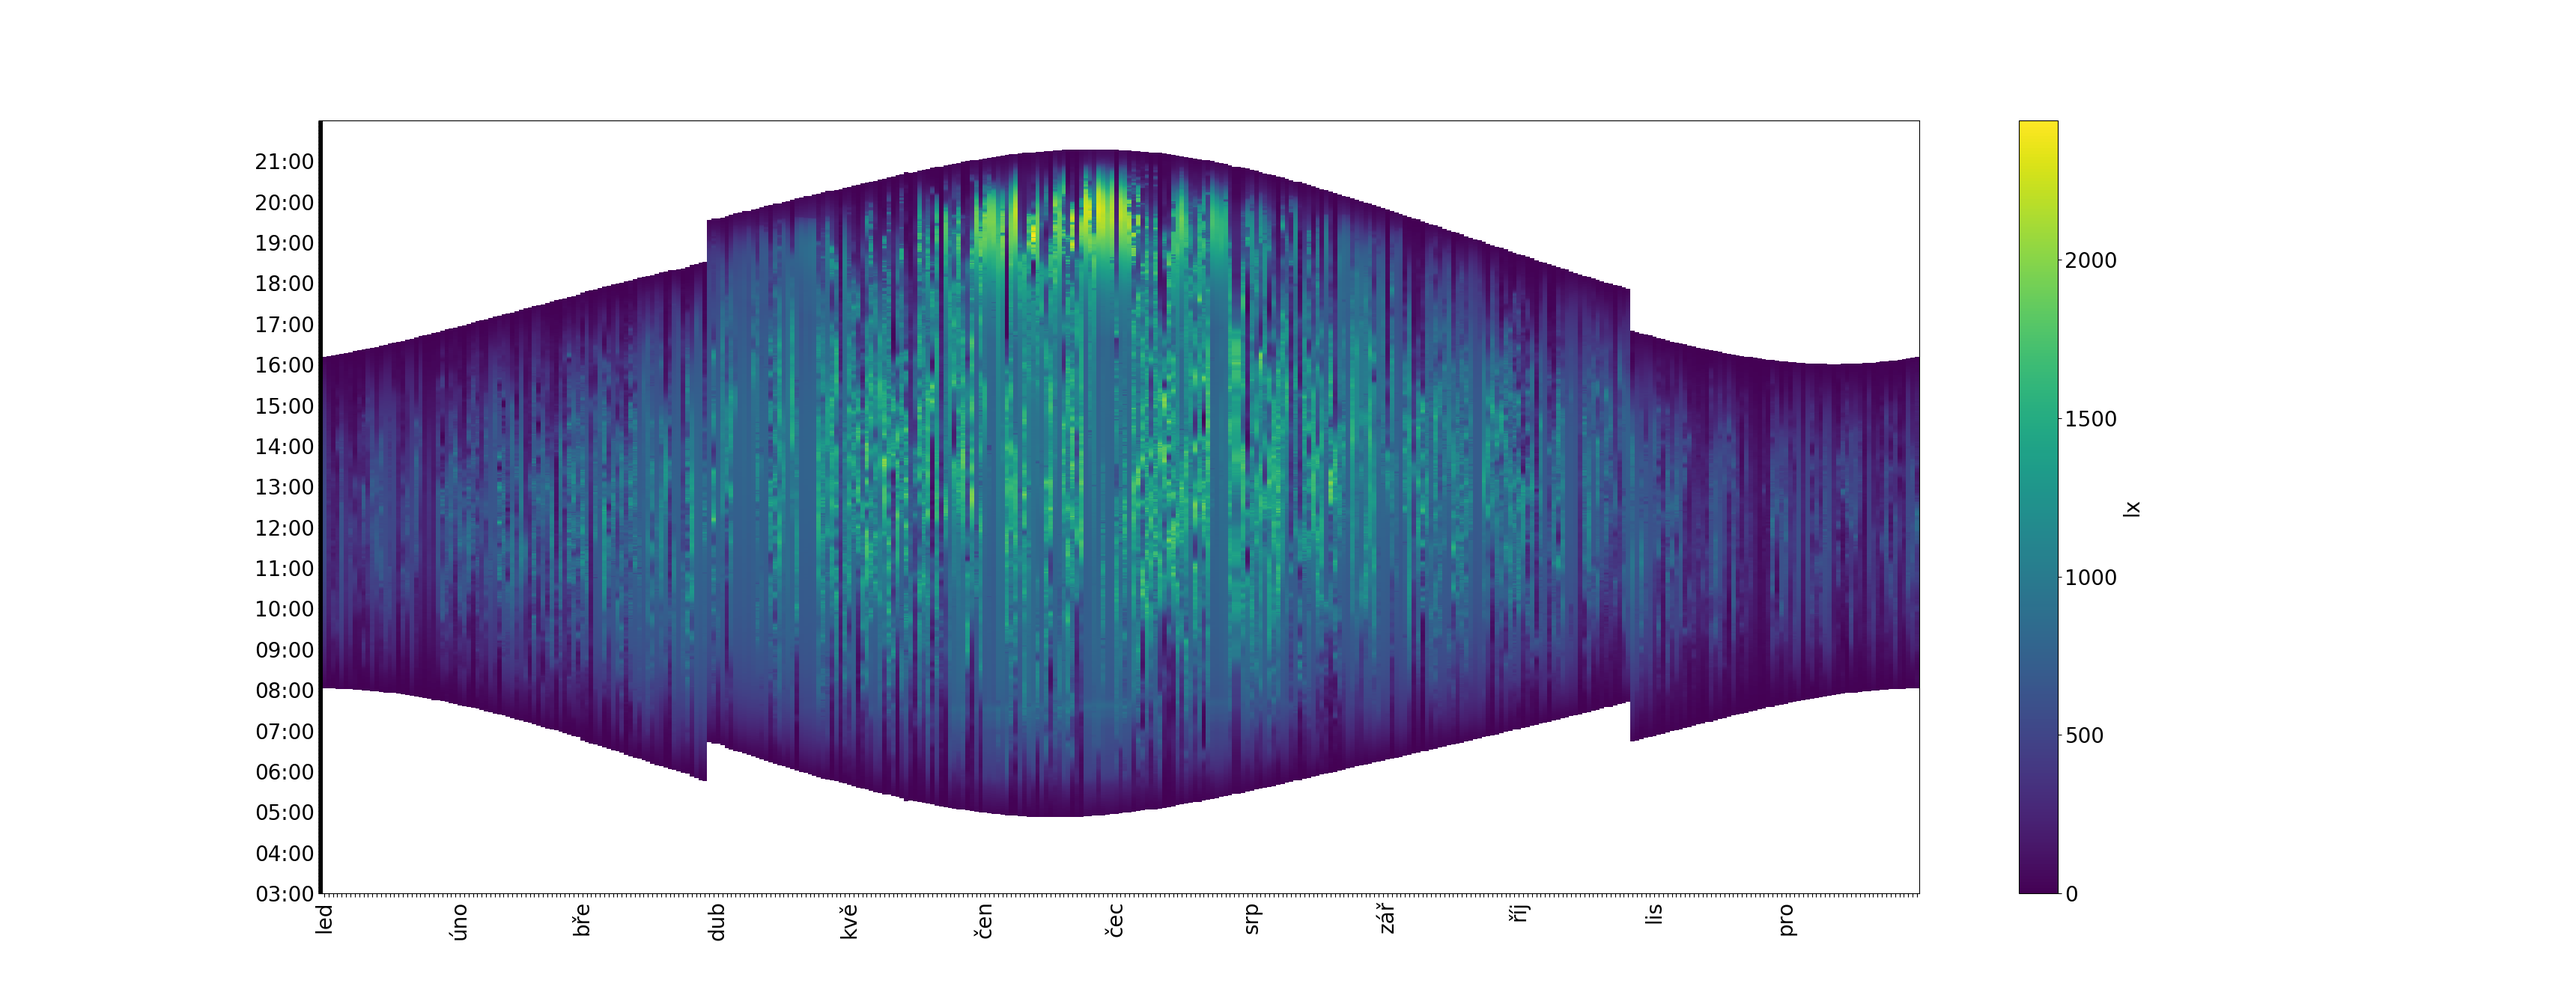
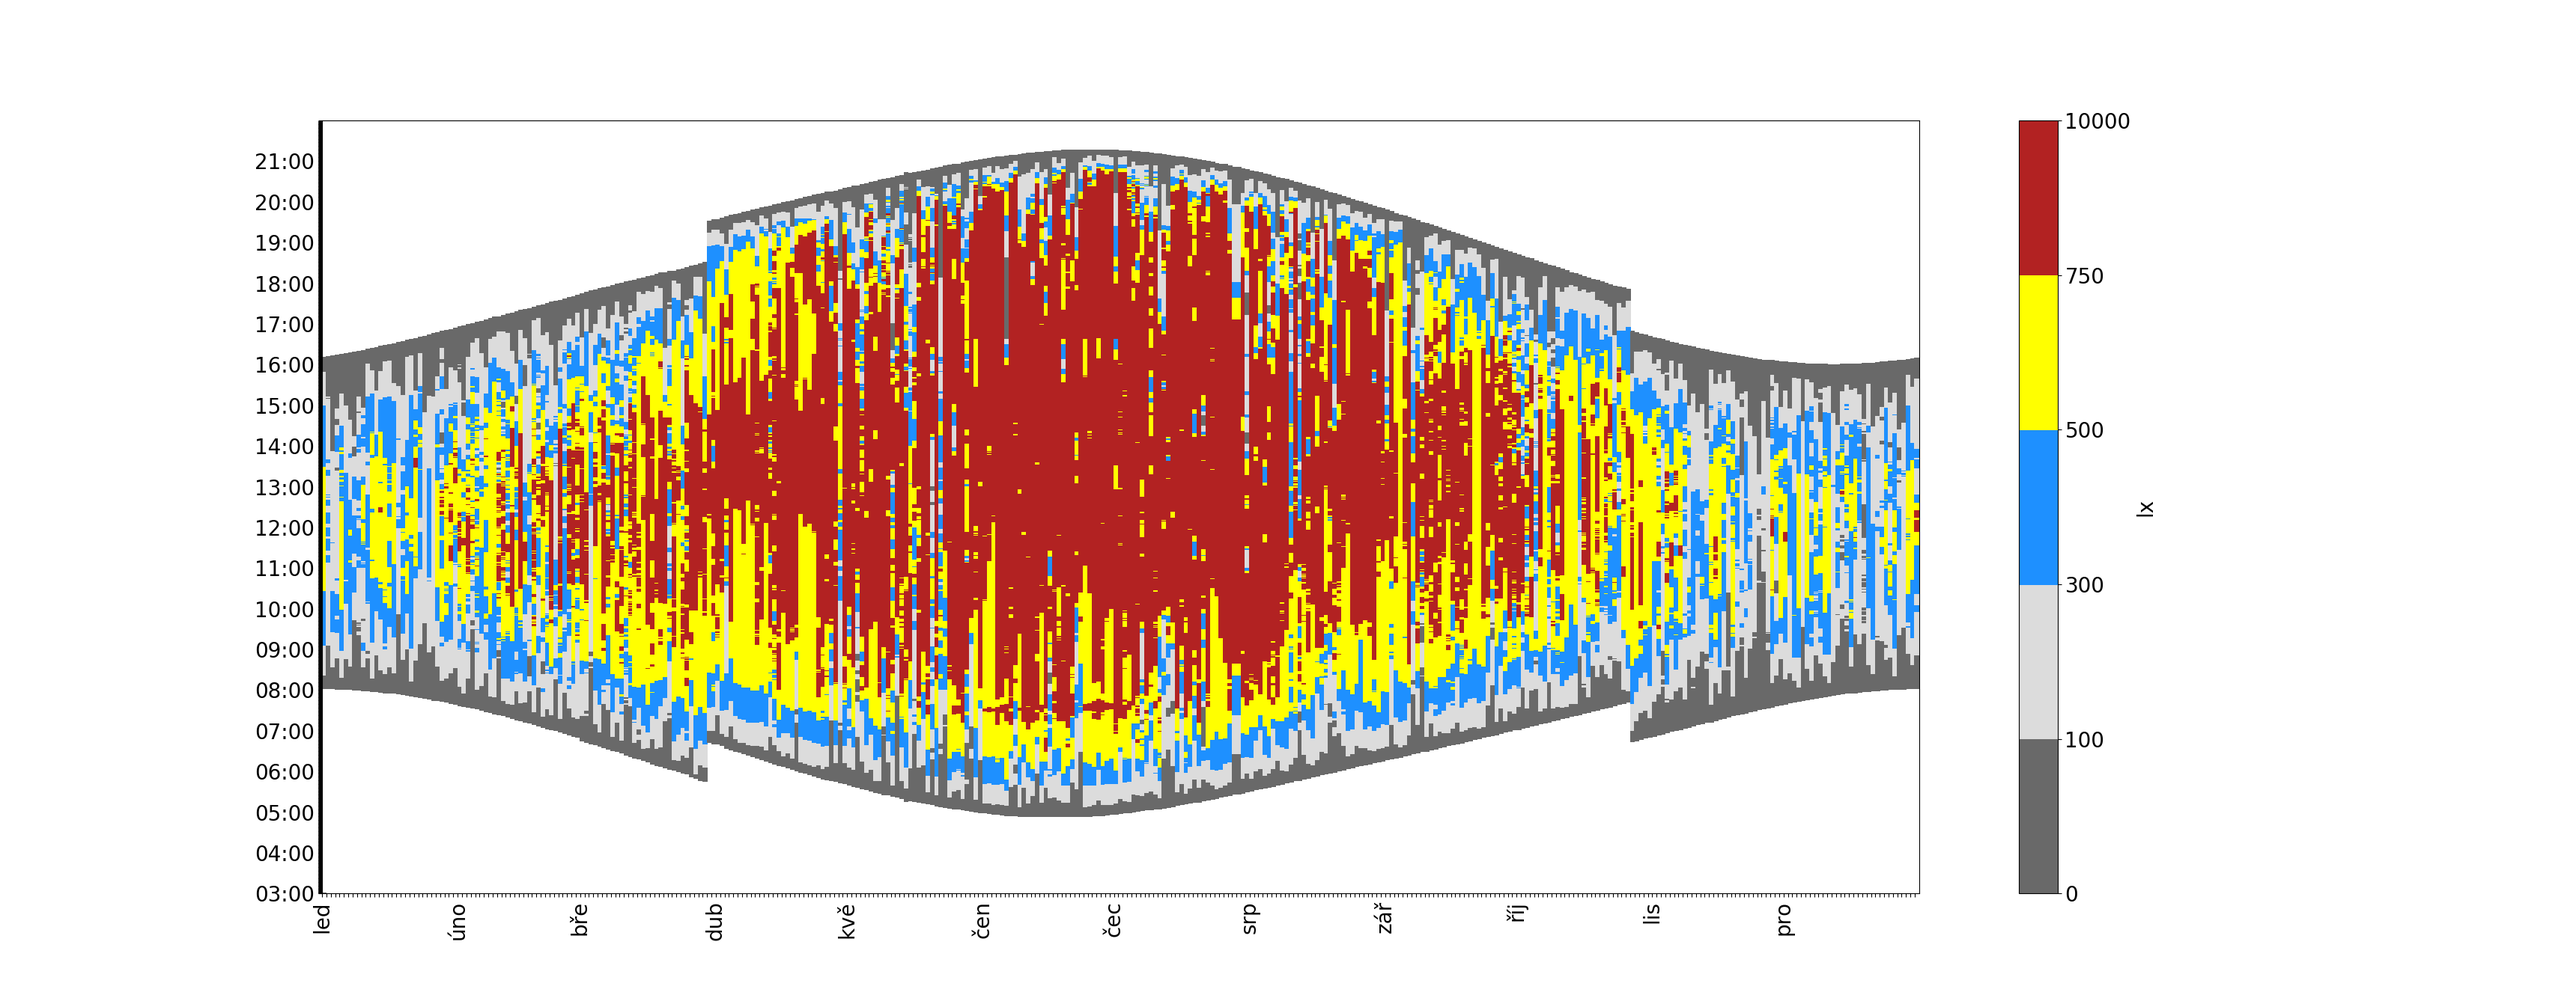
interier custom colors

diff --git a/median_19_interier_cvs_4.py b/median_19_interier_cvs_4.py
@@ -38,7 +38,11 @@ print(df2)
 
 fig, ax = plt.subplots()
 
-im = ax.imshow(df2, aspect='auto', origin='lower')
+from matplotlib import colors
+cmap = colors.ListedColormap(['dimgray', 'gainsboro', 'dodgerblue', 'yellow', 'firebrick'])
+bounds=[0, 100, 300, 500, 750, 10000]
+norm = colors.BoundaryNorm(bounds, cmap.N)
+im = ax.pcolor(df2, cmap=cmap, norm=norm)
 
 
 import locale

diff --git a/median_19_interier_cvs_5.py b/median_19_interier_cvs_5.py
@@ -38,7 +38,11 @@ print(df2)
 
 fig, ax = plt.subplots()
 
-im = ax.imshow(df2, aspect='auto', origin='lower')
+from matplotlib import colors
+cmap = colors.ListedColormap(['dimgray', 'gainsboro', 'dodgerblue', 'yellow', 'firebrick'])
+bounds=[0, 100, 300, 500, 750, 10000]
+norm = colors.BoundaryNorm(bounds, cmap.N)
+im = ax.pcolor(df2, cmap=cmap, norm=norm)
 
 
 import locale
